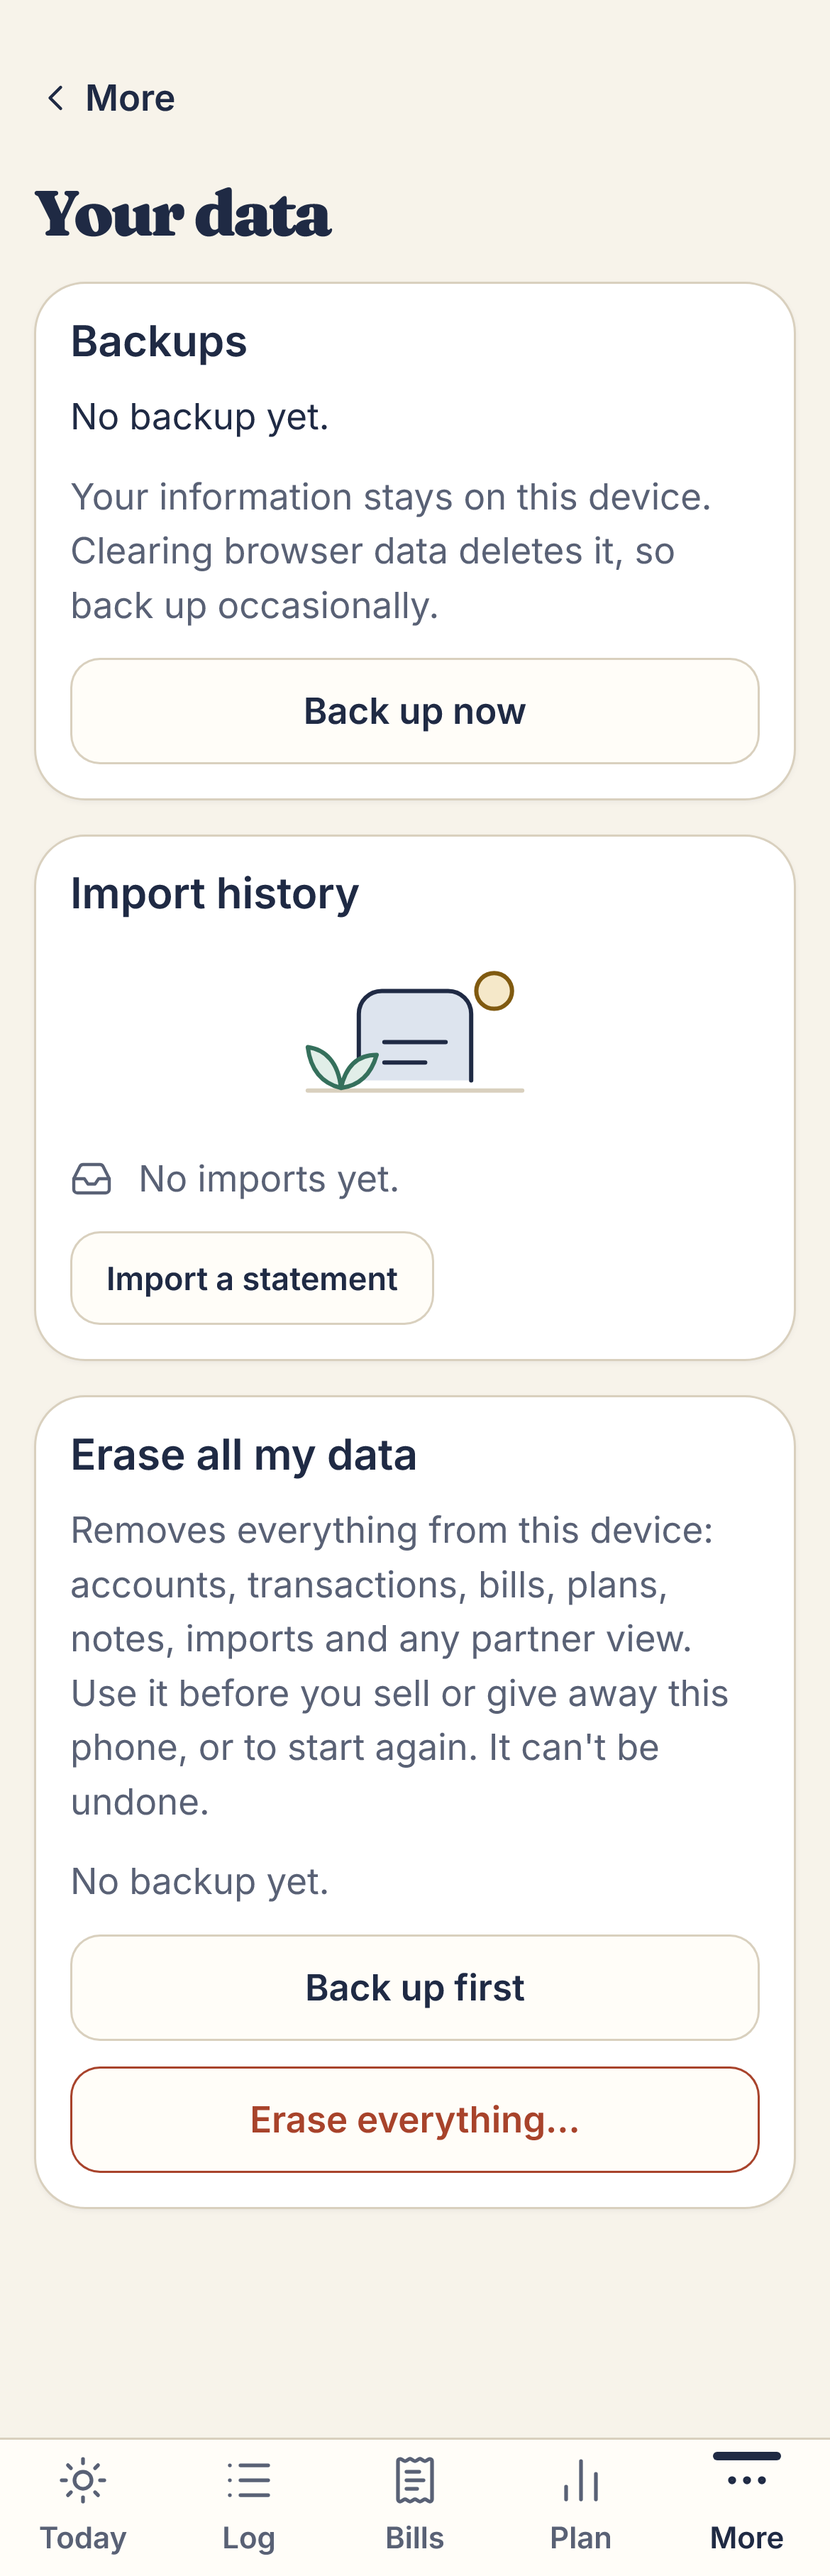
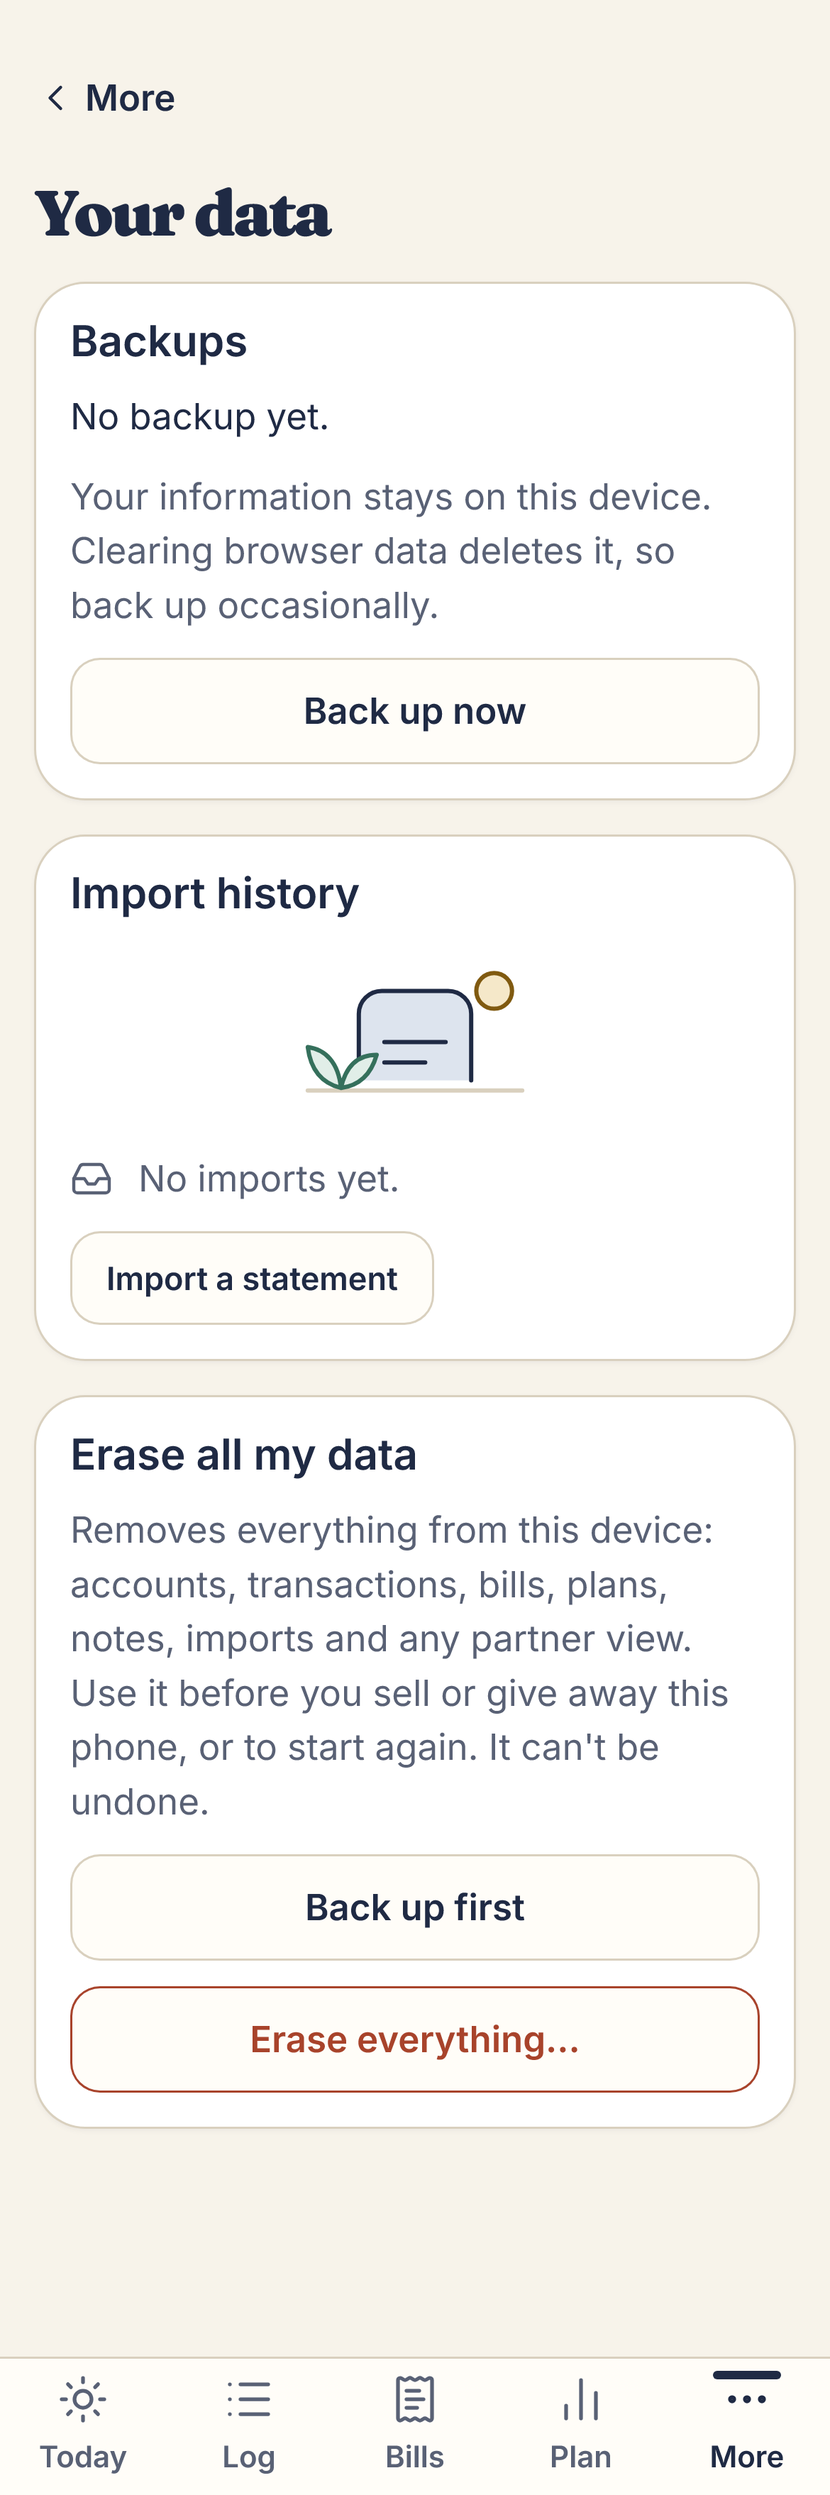
Example history: prove it never moves current numbers; restore tight.spec cushion to 950; fix focus races
Investigation of merge 9cb18f5 (tight.spec cushion 950 → 960):
- tight.spec never loads example data (it sets up a 1,000 balance), and the merge
  changed no calculation code. The original 950 passes on the merge's own build
  and on main, on Chromium and WebKit, so the change wasn't needed: restored to
  950 (the only remaining diff from the owner's version is the setup click for
  the 4-step setup).
- The example history doesn't leak: compared with the pre-merge example data
  for every day from 1 Oct 2026 to 1 Oct 2027, balances, safe to spend,
  envelopes, current-month spending, bills and the 7-day trend are identical.
  It holds because the example account has no opening date and the five
  history months net to exactly zero. New test/exampleData.test.ts guards this
  (verified to fail if one history amount changes by $1).

Your data: the erase card no longer repeats "Last backup"; the Backups card has it.

Focus races found while running everything (WebKit text loss after the 4-step setup):
- Fields focus themselves before paint; outside a sheet they no longer carry the
  native autofocus attribute, which WebKit applies a frame later and which
  could take the cursor from a field being typed in. Inside a sheet the
  attribute is still set, so showModal() focuses the field.
- Sheet hands focus back to its opener in the same tap that closes it, and the
  deferred restore only runs if focus is still unclaimed, so typing straight
[…]

diff --git a/test/exampleData.test.ts b/test/exampleData.test.ts
@@ -1,0 +1,63 @@
+// The example numbers carry five months of history (for Insights and charts). That history must never
+// move a current number: the example account has no opening date, so every past row counts toward its
+// balance, and the history months are chosen to net to exactly zero. These tests keep it that way.
+import { describe, expect, it } from 'vitest';
+import { buildDefaultCategories, buildExampleData } from '../src/data/defaults';
+import { addDays } from '../src/lib/dates';
+import { nextBills, overdueOccurrences } from '../src/lib/bills';
+import { envelopeRows, monthOf, spentByCategory } from '../src/lib/envelopes';
+import { accountBalance, computeSafeToSpend } from '../src/lib/safeToSpend';
+
+type Example = ReturnType<typeof buildExampleData>;
+
+/** Every current-month number Today, Plan and Bills show, with ids replaced by names. */
+function currentNumbers(ex: Example, today: string) {
+  const names = new Map<string, string>();
+  for (const r of [...ex.accounts, ...ex.bills, ...ex.incomes, ...ex.goals, ...ex.debts, ...ex.categories]) names.set(r.id, r.name);
+  const month = monthOf(today);
+  const out = {
+    balances: ex.accounts.map((a) => [a.name, accountBalance(a, ex.transactions, today)]),
+    safeToSpend: computeSafeToSpend({
+      today, accounts: ex.accounts, transactions: ex.transactions, incomes: ex.incomes, bills: ex.bills, goals: ex.goals,
+      settings: { buffer: 0, setAsideGoals: false },
+    }),
+    envelopes: envelopeRows(ex.categories, ex.transactions, [], month).map((r) => [r.category.name, r.spent, r.limit, r.remaining, r.level]),
+    spentThisMonth: [...spentByCategory(ex.transactions, month)].map(([k, v]) => [names.get(k) ?? k, v]).sort(),
+    overdue: ex.bills.map((b) => [b.name, overdueOccurrences(b, today, ex.transactions)]),
+    nextBills: nextBills(ex.bills, today, ex.transactions, 10).map((d) => [d.bill.name, d.date]),
+    lastSevenDays: Array.from({ length: 7 }, (_, i) => addDays(today, i - 6)).map((d) =>
+      ex.transactions.filter((t) => t.date === d && t.amount < 0).reduce((n, t) => n + t.amount, 0)),
+  };
+  return JSON.parse(JSON.stringify(out, (_k, v) => (typeof v === 'string' && names.has(v) ? names.get(v) : v)));
+}
+
+describe('example history', () => {
+  it('exists: several earlier months of rows for Insights', () => {
+    const ex = buildExampleData('2026-10-06', buildDefaultCategories());
+    const months = new Set(ex.transactions.map((t) => monthOf(t.date)).filter((m) => m < '2026-10'));
+    expect(months.size).toBeGreaterThanOrEqual(5);
+  });
+
+  it('nets to zero, so it never moves a balance', () => {
+    const today = '2026-10-06';
+    const ex = buildExampleData(today, buildDefaultCategories());
+    const history = ex.transactions.filter((t) => t.date < addDays(today, -5));
+    expect(history.length).toBeGreaterThan(0);
+    expect(history.reduce((n, t) => n + t.amount, 0)).toBe(0);
+  });
+
+  it('changes no current-month number on any day of the year (balances, safe to spend, envelopes, bills)', () => {
+    const cats = buildDefaultCategories();
+    const diffs: string[] = [];
+    for (let i = 0; i < 366; i++) {
+      const today = addDays('2026-10-01', i);
+      const ex = buildExampleData(today, cats);
+      // The current example spends are 1–5 days back; everything older is the history.
+      const withoutHistory = { ...ex, transactions: ex.transactions.filter((t) => t.date >= addDays(today, -5)) };
+      const a = JSON.stringify(currentNumbers(withoutHistory, today));
+      const b = JSON.stringify(currentNumbers(ex, today));
+      if (a !== b) diffs.push(today);
+    }
+    expect(diffs).toEqual([]);
+  });
+});

diff --git a/src/ui/fields.tsx b/src/ui/fields.tsx
@@ -14,13 +14,18 @@ const useId = (prefix: string) => useState(() => `${prefix}-${++fieldSeq}`)[0];
 
 /**
  * Focus a field when it appears. The autofocus attribute only works on page load and when a dialog
- * opens; a new onboarding step or a form shown in place needs an explicit focus(). Done before
- * paint, so a quick tap into another field on the same screen can't be overtaken by a late focus.
+ * opens; a new onboarding step or a form shown in place needs an explicit focus(). Inside a sheet
+ * (<dialog>), the attribute is set so showModal() focuses the field as it opens. Elsewhere the field
+ * is focused before paint and never gets the attribute, which WebKit applies a frame later — that
+ * late focus could overtake a quick tap into another field on the same screen.
  */
 function useAutoFocus(on?: boolean) {
   const ref = useRef<HTMLInputElement>(null);
   useLayoutEffect(() => {
-    if (on) ref.current?.focus({ preventScroll: true });
+    const el = ref.current;
+    if (!on || !el) return;
+    if (el.closest('dialog')) el.autofocus = true;
+    else el.focus({ preventScroll: true });
   }, []);
   return ref;
 }
@@ -56,7 +61,6 @@ export function TextInput(props: {
         value={props.value}
         placeholder={props.placeholder}
         ref={ref}
-        autoFocus={props.autoFocus}
         onInput={(e) => props.onInput(e.currentTarget.value)}
       />
     </Field>
@@ -114,7 +118,6 @@ export function MoneyInput(props: {
         placeholder={props.placeholder ?? (dec === ',' ? '0,00' : '0.00')}
         value={props.value}
         ref={ref}
-        autoFocus={props.autoFocus}
         onInput={(e) => props.onInput(e.currentTarget.value)}
         onBlur={() => setTouched(true)}
         aria-label={props.ariaLabel}

diff --git a/src/ui/Sheet.tsx b/src/ui/Sheet.tsx
@@ -17,16 +17,24 @@ export function Sheet(props: { open: boolean; onClose: () => void; title: string
       d.showModal();
     }
     if (!props.open && d.open) d.close();
-    if (!props.open && opener.current) {
-      if (opener.current.isConnected) opener.current.focus();
-      opener.current = null;
-    }
+    if (!props.open) returnFocus();
   }, [props.open]);
 
-  // Close the native dialog in the same event as the user's tap. Waiting for the next
-  // render leaves the page behind it inert for a moment, and input typed then is lost.
+  // Focus goes back to the opener — but only if it's still nowhere in particular. This can run a
+  // frame after the sheet closed; by then the person may already be typing somewhere else.
+  const returnFocus = () => {
+    const to = opener.current;
+    opener.current = null;
+    const now = document.activeElement;
+    const unclaimed = !now || now === document.body || !!ref.current?.contains(now);
+    if (to?.isConnected && unclaimed) to.focus();
+  };
+
+  // Close the native dialog (and hand focus back) in the same event as the user's tap. Waiting for
+  // the next render leaves the page behind it inert for a moment, and input typed then is lost.
   const close = () => {
     if (ref.current?.open) ref.current.close();
+    returnFocus();
     props.onClose();
   };
 

diff --git a/e2e/tight.spec.ts b/e2e/tight.spec.ts
@@ -26,11 +26,11 @@ test('tight (above zero, little spare) and short (below zero) read differently o
   await expect(hero.getByRole('heading', { name: 'Safe to spend today' })).toBeVisible();
   await expect(hero.locator('.status')).toHaveText('On track');
 
-  // Cushion 960.00 → 40.00 left for the period (4% of 1,000) → tight, still a positive number.
-  await setCushion(page, '960');
+  // Cushion 950.00 → 50.00 left for the period (5% of 1,000) → tight, still a positive number.
+  await setCushion(page, '950');
   await expect(hero.getByRole('heading', { name: 'Tight until payday' })).toBeVisible();
   await expect(hero.getByText('Short until payday')).toHaveCount(0);
-  await expect(page.locator('.big-number')).toHaveText('$1'); // 40.00 ÷ 26 days = 1.53 → $1
+  await expect(page.locator('.big-number')).toHaveText('$1'); // 50.00 ÷ 26 days = 1.92 → $1
   await expect(page.locator('.big-number')).not.toHaveClass(/big-number-tight/);
   await expect(hero.getByText('What you can spend today and still cover your bills until the end of the month.')).toBeVisible();
   await expect(hero.locator('.status')).toHaveText('Not much spare after bills');

diff --git a/src/screens/YourData.tsx b/src/screens/YourData.tsx
@@ -107,7 +107,6 @@ export function YourData({ onBackup }: { onBackup: () => void }) {
           Removes everything from this device: accounts, transactions, bills, plans, notes, imports and any partner view. Use it before you
           sell or give away this phone, or to start again. It can't be undone.
         </p>
-        <p class="muted">{lastBackupText(settings.lastBackupAt)}.</p>
         {!__DEMO__ && (
           <button type="button" class="btn" onClick={onBackup}>
             Back up first
